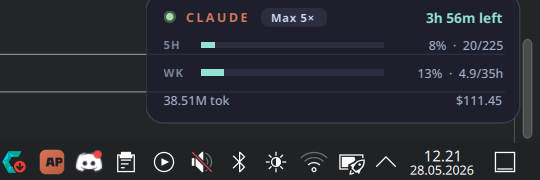
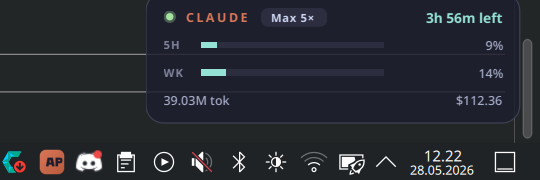
Trim bar trails to just the percentage

diff --git a/overlay.py b/overlay.py
@@ -151,7 +151,7 @@ class Overlay(QWidget):
         if cap:
             pct = min(100, msgs * 100 // cap)
             self.msg_bar.setValue(pct)
-            self.session_trail.setText(f"{pct}%  ·  {msgs}/{cap}")
+            self.session_trail.setText(f"{pct}%")
             self._color_bar(self.msg_bar, pct)
         else:
             self.msg_bar.setValue(0)
@@ -171,7 +171,7 @@ class Overlay(QWidget):
             self.week_trail.setVisible(True)
             pct_w = min(100, int(hours / cap_h * 100)) if cap_h else 0
             self.week_bar.setValue(pct_w)
-            self.week_trail.setText(f"{pct_w}%  ·  {hours:.1f}/{cap_h}h")
+            self.week_trail.setText(f"{pct_w}%")
             self._color_bar(self.week_bar, pct_w)
 
         tok = snap.session.total_tokens